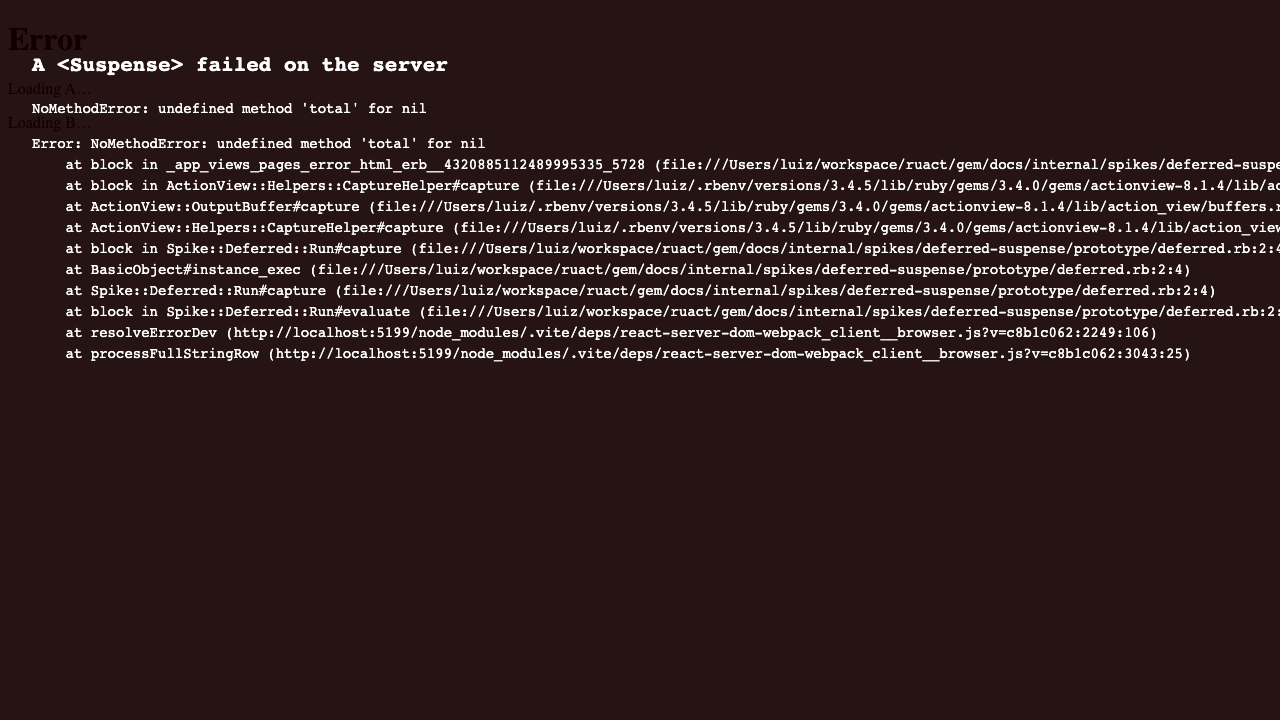
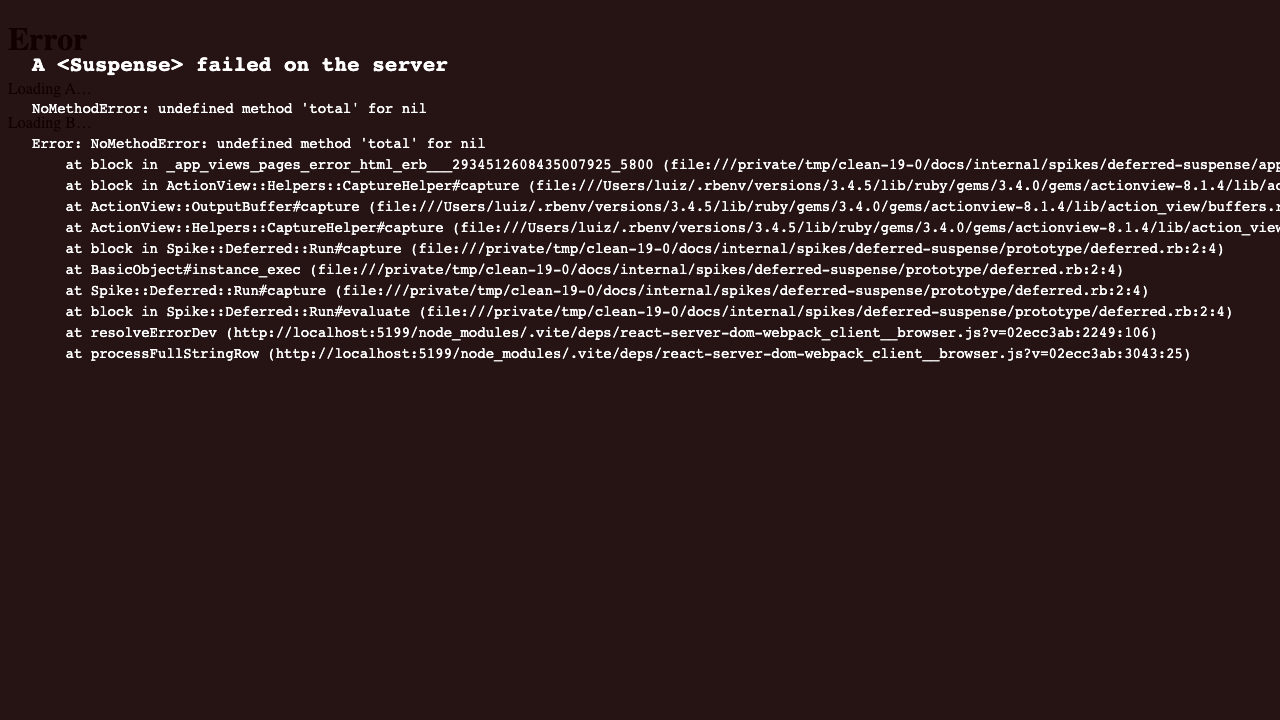
19-0: results of the run from a clean archive

Changed region(s): [[0.2812, 0.3361, 1.0, 0.5194], [0.3438, 0.2139, 1.0, 0.2444]]

diff --git a/docs/internal/spikes/deferred-suspense/results/http.md b/docs/internal/spikes/deferred-suspense/results/http.md
@@ -4,8 +4,8 @@ Written by `measure/measure.rb` on ruby 3.4.5 (2025-07-16 revision 20cda200d3) +
 
 ## Baseline: ruact 0.0.19 with ActionController::Live
 
-- flight: with the gate closed, headers or body received = **false**; after the gate opened the response took 1.51 s to complete
-- document: with the gate closed, headers or body received = **false**; after the gate opened the response took 0.03 s to complete
+- flight: with the gate closed, headers or body received within 1 s = **false**; after the gate opened the response took 1.51 s to complete
+- document: with the gate closed, headers or body received within 1 s = **false**; after the gate opened the response took 0.02 s to complete
 
 ## Buffering: does the shell reach the client while the gate is closed?
 
@@ -47,6 +47,8 @@ Compared with `bin/rails middleware` in an app generated by `rails _8.1.4_ new` 
 
 ## A client that goes away while a block is waiting
 
+"Still waiting" and "started" are read up to 1 s and 2 s after the event: a bound, where every other line here is an order.
+
 - **live**, one slow query (`/db`): connections busy while waiting = 1; after the client left, the block was still waiting = true (busy = 1); after the gate opened, busy = 0; events = `shell_written → block_start:0 → block_end:0 → complete`
 - **live**, two blocks (`/two`): the second block started for a client that had left = **true**; events = `shell_written → block_start:0 → block_end:0 → block_start:1 → block_end:1 → complete`
 - **body**, one slow query (`/db`): connections busy while waiting = 1; after the client left, the block was still waiting = true (busy = 1); after the gate opened, busy = 0; events = `shell_written → block_start:0 → block_end:0 → complete`
@@ -58,8 +60,10 @@ Compared with `bin/rails middleware` in an app generated by `rails _8.1.4_ new` 
 
 ## A block that runs past `suspense_timeout` (set to 1 s)
 
-- **live**: busy while waiting = 1; error row = `1:E{"digest":"ruact:suspense-timeout","name":"Error","message":"Suspense timeout exceeded","stack":[],"env":"Server"}`; the next block arrived = true; afterwards waiting = {}, pool = busy 0 / idle 1 / dead 0; a query on the same pool afterwards = 200
-- **body**: busy while waiting = 1; error row = `1:E{"digest":"ruact:suspense-timeout","name":"Error","message":"Suspense timeout exceeded","stack":[],"env":"Server"}`; the next block arrived = true; afterwards waiting = {}, pool = busy 0 / idle 1 / dead 0; a query on the same pool afterwards = 200
+- **live**, the client stays: busy while waiting = 1; error row = `1:E{"digest":"ruact:suspense-timeout","name":"Error","message":"Suspense timeout exceeded","stack":[],"env":"Server"}`; the next block arrived = true; afterwards waiting = {}, pool = busy 0 / idle 1 / dead 0; a page that queries the same pool afterwards = 200, rows read = 2
+- **live**, the client leaves and the gate never opens: busy while waiting = 1, and the block was still waiting once the client had left; after the timeout, waiting = {} and busy = 0; events = `shell_written → block_start:0 → block_error:Timeout::Error → reported:Timeout::Error:ruact.suspense → complete`
+- **body**, the client stays: busy while waiting = 1; error row = `1:E{"digest":"ruact:suspense-timeout","name":"Error","message":"Suspense timeout exceeded","stack":[],"env":"Server"}`; the next block arrived = true; afterwards waiting = {}, pool = busy 0 / idle 1 / dead 0; a page that queries the same pool afterwards = 200, rows read = 2
+- **body**, the client leaves and the gate never opens: busy while waiting = 1, and the block was still waiting once the client had left; after the timeout, waiting = {} and busy = 0; events = `shell_written → block_start:0 → block_error:Timeout::Error → reported:Timeout::Error:ruact.suspense → complete`
 
 ## `load_async` in the controller, consumed inside two boundaries (`/db_async`)
 
@@ -67,16 +71,65 @@ Compared with `bin/rails middleware` in an app generated by `rails _8.1.4_ new` 
 - **live, async_query_executor = nil**: first seen waiting = {"a" => 1}; both queries running at once = **false** (waiting = {"a" => 1}, connections busy = 1); shell at the client before any gate opened = **false**; with gate b opened first, b's row arrived before a's gate opened = **false**
 - **baseline, async_query_executor = :global_thread_pool**: first seen waiting = {"a" => 1, "b" => 1}; both queries running at once = **true** (waiting = {"a" => 1, "b" => 1}, connections busy = 2); shell at the client before any gate opened = **false**; with gate b opened first, b's row arrived before a's gate opened = **false**
 
-## What `ActionController::Live` on every action costs a page with no Suspense (`/plain`, production)
+## What `ActionController::Live` costs a page with no Suspense (`/plain`, production)
 
-- **with Live**: document 448 / 473 / 475 req/s, Flight 669 / 685 / 664 req/s (3 runs of 3000, concurrency 3); headers: `cache-control: no-cache`, `transfer-encoding: chunked`; Flight response: no ETag; threads when idle = 9
-- **without Live**: document 440 / 435 / 438 req/s, Flight 561 / 623 / 569 req/s (3 runs of 3000, concurrency 3); headers: `cache-control: max-age=0, private, must-revalidate`, `etag: W/"4ba162121cd5afd9a23c976f13e2243a"`, `content-length: 907`; Flight response: ETag sent, and a request with `If-None-Match` → 304; threads when idle = 8
+Throughput is three 4-second `wrk` runs after a warm-up, on a machine doing other things: read the spread between runs before reading a difference between rows.
 
-## What a middleware set on the thread (`/mw`: a middleware wraps the request in `I18n.with_locale(:pt)` and sets a thread variable)
+- **Live on every action**: the action runs on the other thread; document 462 / 474 / 473 req/s, Flight 658 / 662 / 641 req/s (wrk, 3 runs of 4 s, 3 connections); document headers: `cache-control: no-cache`, `transfer-encoding: chunked`; Flight response: no ETag; `/slow` still sends its shell before the gate opens = true
+- **Live chosen per action, `plain` left out**: the action runs on the request thread; document 487 / 497 / 503 req/s, Flight 708 / 695 / 704 req/s (wrk, 3 runs of 4 s, 3 connections); document headers: `cache-control: max-age=0, private, must-revalidate`, `etag: W/"03d46e8d56efffb7d9562e56ba3d39ee"`, `content-length: 978`; Flight response: ETag sent, `If-None-Match` → 304; `/slow` still sends its shell before the gate opens = true
+- **no Live (lazy body)**: the action runs on the request thread; document 477 / 484 / 483 req/s, Flight 690 / 692 / 686 req/s (wrk, 3 runs of 4 s, 3 connections); document headers: `cache-control: max-age=0, private, must-revalidate`, `etag: W/"508b8516cb6d3c17051e8901afbf9886"`, `content-length: 978`; Flight response: ETag sent, `If-None-Match` → 304; `/slow` still sends its shell before the gate opens = true
 
-- **0.0.19 with Live (today)**: shell sees locale `pt`, thread variable `nil`; the Suspense content sees locale `pt`, thread variable `nil`
-- **prototype, live**: shell sees locale `pt`, thread variable `nil`; the Suspense content sees locale `pt`, thread variable `nil`
-- **prototype, body**: shell sees locale `pt`, thread variable `"set"`; the Suspense content sees locale `en`, thread variable `"set"`
+## An `after_action` that sets a header and a cookie
+
+The filter waits at a gate before it writes, so the order is a fact: were the response's headers already at the client while the filter was still running?
+
+| configuration | page | response | headers sent before the filter finished | the filter's header | the filter's cookie |
+| --- | --- | --- | --- | --- | --- |
+| 0.0.19 with Live (today) | no Suspense | document | **yes** | **lost** | **lost** |
+| 0.0.19 with Live (today) | no Suspense | flight | **yes** | **lost** | **lost** |
+| 0.0.19 with Live (today) | one Suspense | document | **yes** | **lost** | **lost** |
+| 0.0.19 with Live (today) | one Suspense | flight | **yes** | **lost** | **lost** |
+| prototype, Live on every action | no Suspense | document | **yes** | **lost** | **lost** |
+| prototype, Live on every action | no Suspense | flight | **yes** | **lost** | **lost** |
+| prototype, Live on every action | one Suspense | document | **yes** | **lost** | **lost** |
+| prototype, Live on every action | one Suspense | flight | **yes** | **lost** | **lost** |
+| prototype, Live per action (`plain` left out) | no Suspense | document | no | arrives | arrives |
+| prototype, Live per action (`plain` left out) | no Suspense | flight | no | arrives | arrives |
+| prototype, Live per action (`plain` left out) | one Suspense | document | **yes** | **lost** | **lost** |
+| prototype, Live per action (`plain` left out) | one Suspense | flight | **yes** | **lost** | **lost** |
+| prototype, no Live (lazy body) | no Suspense | document | no | arrives | arrives |
+| prototype, no Live (lazy body) | no Suspense | flight | no | arrives | arrives |
+| prototype, no Live (lazy body) | one Suspense | document | no | arrives | arrives |
+| prototype, no Live (lazy body) | one Suspense | flight | no | arrives | arrives |
+
+With no gate, the same writes race the headers being sent. Each cell is how many of 600 responses carried them: 3 clients at once, 200 requests each, against Puma's 3 threads.
+
+| configuration | what writes | response | header arrived | cookie arrived |
+| --- | --- | --- | --- | --- |
+| prototype, Live on every action | an `after_action`, page with no Suspense | document | 600 / 600 | 600 / 600 |
+| prototype, Live on every action | a `<Suspense>` block that does not wait | document | — | 600 / 600 |
+| prototype, Live on every action | an `after_action`, page with no Suspense | flight | 600 / 600 | 600 / 600 |
+| prototype, Live on every action | a `<Suspense>` block that does not wait | flight | — | 600 / 600 |
+| prototype, no Live (lazy body) | an `after_action`, page with no Suspense | document | 600 / 600 | 600 / 600 |
+| prototype, no Live (lazy body) | a `<Suspense>` block that does not wait | document | — | 0 / 600 |
+| prototype, no Live (lazy body) | an `after_action`, page with no Suspense | flight | 600 / 600 | 600 / 600 |
+| prototype, no Live (lazy body) | a `<Suspense>` block that does not wait | flight | — | 0 / 600 |
+
+## A page with no Suspense (`/same`): what the prototype sends against what 0.0.19 sends
+
+- **prototype, Live**: Flight body identical to 0.0.19's = **true** (341 bytes); payload inlined in the document identical = **true**
+- **prototype, lazy body**: Flight body identical to 0.0.19's = **true** (341 bytes); payload inlined in the document identical = **true**
+
+## What a middleware scoped around the request (`/mw`)
+
+The middleware wraps the app in `I18n.with_locale(:pt)` and in `ActiveRecord::Base.connected_to(role: :writing, prevent_writes: true)`. The block waits at a gate, which opens only after the client has the response's headers: the middleware has returned by then.
+
+- **0.0.19 with Live (today)**, `/mw` as the server's first request — shell: locale `pt`, writes prevented, the middleware's thread variable `none`; block: locale `pt`, writes prevented. A page with no such middleware, right after: locale `pt`
+- **0.0.19 with Live (today)**, `/mw` after another page (locale `en`) has run — shell: locale `en`, writes prevented, the middleware's thread variable `none`; block: locale `en`, writes prevented
+- **prototype, Live**, `/mw` as the server's first request — shell: locale `pt`, writes prevented, the middleware's thread variable `none`; block: locale `pt`, writes allowed. A page with no such middleware, right after: locale `pt`
+- **prototype, Live**, `/mw` after another page (locale `en`) has run — shell: locale `en`, writes prevented, the middleware's thread variable `none`; block: locale `en`, writes allowed
+- **prototype, lazy body**, `/mw` as the server's first request — shell: locale `pt`, writes prevented, the middleware's thread variable `set`; block: locale `en`, writes allowed. A page with no such middleware, right after: locale `en`
+- **prototype, lazy body**, `/mw` after another page (locale `en`) has run — shell: locale `pt`, writes prevented, the middleware's thread variable `set`; block: locale `en`, writes allowed
 
 ## The template path inside a deferred block
 

diff --git a/docs/internal/decisions/suspense-deferred-evaluation.md b/docs/internal/decisions/suspense-deferred-evaluation.md
@@ -354,7 +354,7 @@ What Live does to an action that uses it, **on a page with no `<Suspense>`**
 | A locale set by a middleware | the pool thread's: this request's or an earlier one's (D3) | seen |
 | Thread variables set by a middleware | not visible | visible |
 | An `after_action` that writes a header or a cookie | arrived in 600 of 600 when the filter did nothing that lets another thread run; lost when it waited at a gate | arrives |
-| Requests per second, trivial page | a few percent fewer at most: the gap is about the size of the spread between runs | — |
+| Requests per second, trivial page | about 5% fewer in the results committed here; other runs on the same machine gave between nothing and 15% | — |
 
 By Rails' source, not measured here:
 
